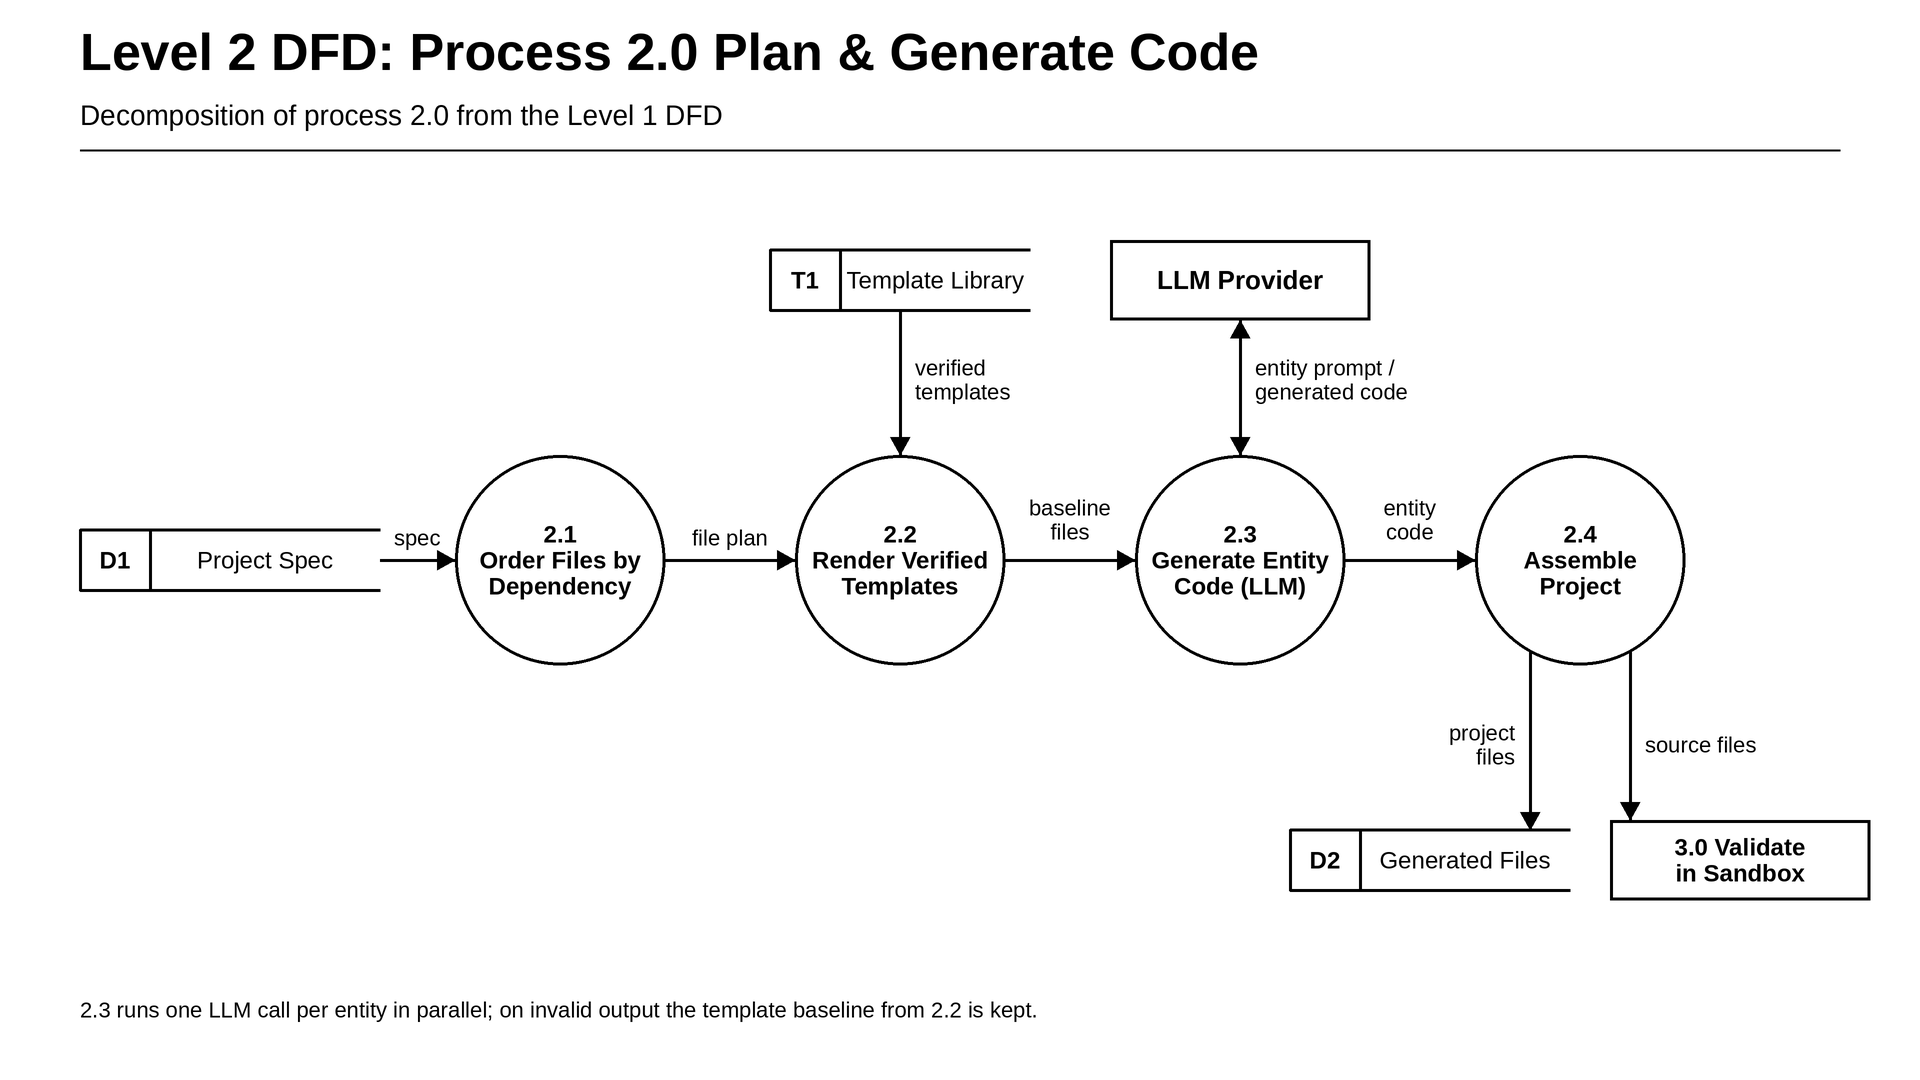
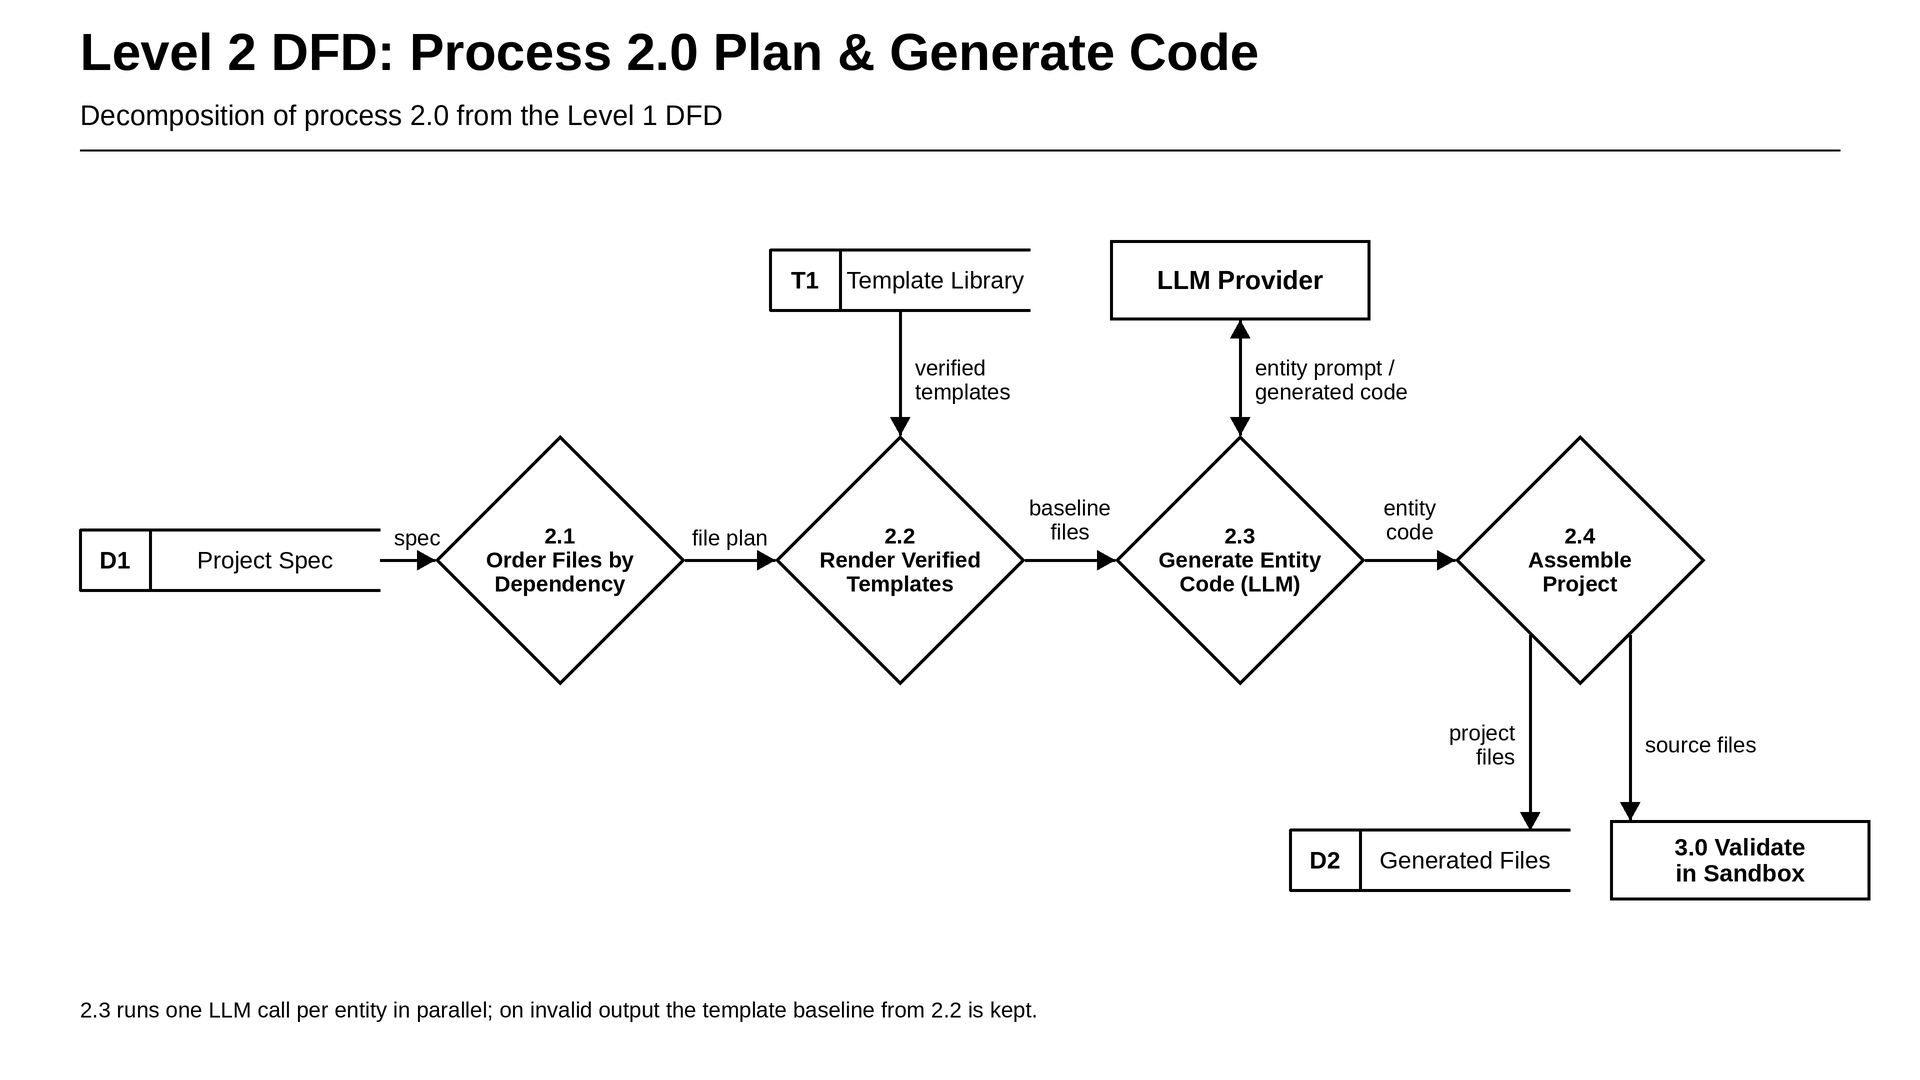
Draw Level 2 DFD processes as rhombuses
Claude-Session: https://claude.ai/code/session_0155GTy4isbZFZzpfanGskia

diff --git a/docs/presentation/dfd-level2/render.py b/docs/presentation/dfd-level2/render.py
@@ -28,8 +28,10 @@ class Diagram:
                               anchor=anchor, align=align, spacing=4 * S)
 
     def circle(self, cx, cy, r, label):
-        self.d.ellipse([(cx - r) * S, (cy - r) * S, (cx + r) * S, (cy + r) * S], outline=K, width=LW * S, fill="white")
-        self.text(label, cx, cy, 24, bold=True)
+        """Process symbol, drawn as a rhombus with half-diagonal r."""
+        pts = [(cx, cy - r), (cx + r, cy), (cx, cy + r), (cx - r, cy)]
+        self.d.polygon([(x * S, y * S) for x, y in pts], outline=K, width=LW * S, fill="white")
+        self.text(label, cx, cy, 22, bold=True)
 
     def rect(self, x, y, w, h, label, size=26):
         self.d.rectangle([x * S, y * S, (x + w) * S, (y + h) * S], outline=K, width=LW * S, fill="white")
@@ -66,12 +68,12 @@ class Diagram:
         print("wrote", path)
 
 
-R, Y = 105, 560
+R, Y = 125, 560
 
 
 def edge(cx, dx, r=R, cy=Y, top=False):
-    """y on circle (cx, cy) at horizontal offset dx (bottom unless top)."""
-    dy = (r * r - dx * dx) ** 0.5
+    """y on the rhombus edge (cx, cy) at horizontal offset dx (bottom unless top)."""
+    dy = r - abs(dx)
     return round(cy - dy) if top else round(cy + dy)
 
 
@@ -152,7 +154,7 @@ def dfd_40(out):
     d.rect(1310, 240, 240, 80, "LLM Provider")
     d.arrow(1430, 320, 1430, Y - R, both=True); d.text("cheap → strong\nmodel / patch", 1445, 390, anchor="lm")
     # 4.5 below 4.4
-    c5 = 850
+    c5 = 860
     d.circle(1430, c5, R, "4.5\nApply Patch\n& Log")
     d.arrow(1430, Y + R, 1430, c5 - R); d.text("patched\nfile", 1445, 705, anchor="lm")
     d.store(1610, 820, 260, 60, "D3", "Change Ledger")
